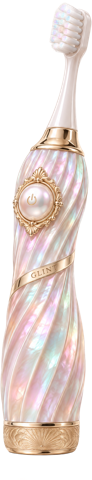
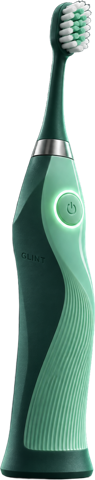
Dark green and mint colours, new Glint design, before/after photos
- Back to the dark green and mint palette
- New sculpted green Glint with a ribbed mint grip across all images and the cursor
- Generated before/after smile pair for the slider, labelled as illustrative

Claude-Session: https://claude.ai/code/session_01LpMoU7axzAW7tjnf5Kqx1y

diff --git a/index.html b/index.html
@@ -10,21 +10,24 @@
 <link href="https://fonts.googleapis.com/css2?family=Bricolage+Grotesque:opsz,wght@12..96,500;12..96,700;12..96,800&family=Inter:wght@400;500;600&display=swap" rel="stylesheet">
 <style>
   :root {
-    --bg: #f7f4ef;            /* pearl white */
-    --bg-2: #fbf9f6;          /* warm off-white */
-    --ink: #1c1e21;
-    --muted: #5f6369;
-    --line: rgba(28, 30, 33, 0.10);
-    --mint: #3f8f70;
-    --pearl: linear-gradient(120deg, #fbe7ee 0%, #f6f1e6 30%, #e3f3f0 62%, #f3e9dc 100%);
-    --pearl-soft: linear-gradient(180deg, rgba(251,231,238,.55), rgba(227,243,240,.55));
+    --bg: #12201e;            /* dark green */
+    --bg-2: #182a27;
+    --card: #1b2f2b;
+    --ink: #ece7de;
+    --muted: #a3b1ab;
+    --line: rgba(236, 231, 222, 0.11);
+    --mint: #8fd3b6;
+    --mint-deep: #5fae8e;
+    --coral: #e9a48f;
+    --pearl: linear-gradient(135deg, #8fd3b6, #5fae8e);
+    --pearl-soft: rgba(143, 211, 182, 0.08);
     --radius: 24px;
     --display: "Bricolage Grotesque", system-ui, sans-serif;
     --body: "Inter", system-ui, sans-serif;
   }
   * { box-sizing: border-box; }
   html { scroll-behavior: smooth; }
-  body { margin: 0; background: var(--bg); color: var(--ink); font-family: var(--body); font-size: 17px; line-height: 1.6; -webkit-font-smoothing: antialiased; overflow-x: hidden; }
+  body { margin: 0; background: radial-gradient(1200px 600px at 85% -10%, rgba(143,211,182,.10), transparent 60%), radial-gradient(900px 500px at -10% 30%, rgba(233,164,143,.06), transparent 60%), var(--bg); color: var(--ink); font-family: var(--body); font-size: 17px; line-height: 1.6; -webkit-font-smoothing: antialiased; overflow-x: hidden; }
   @media (pointer: fine) { html.brush-on, html.brush-on * { cursor: none !important; } }
   a { color: inherit; }
   img { display: block; max-width: 100%; height: auto; }
@@ -39,8 +42,8 @@
   .sub { font-size: clamp(18px, 1.5vw, 21px); color: var(--muted); max-width: 44ch; }
 
   .btn { display: inline-flex; align-items: center; justify-content: center; gap: 10px; font: 600 17px/1 var(--body); padding: 19px 30px; border-radius: 999px; text-decoration: none;
-    background: var(--ink); color: #fff; border: 0; transition: transform .2s, box-shadow .2s; box-shadow: 0 10px 30px rgba(28,30,33,.18); }
-  .btn:hover { transform: translateY(-2px); box-shadow: 0 16px 36px rgba(28,30,33,.24); }
+    background: var(--mint); color: #0e211b; border: 0; transition: transform .2s, box-shadow .2s, background .2s; box-shadow: 0 10px 30px rgba(143,211,182,.18); }
+  .btn:hover { transform: translateY(-2px); background: #a9e0c8; box-shadow: 0 16px 36px rgba(143,211,182,.28); }
   .btn:active { transform: translateY(0); }
   .btn svg { width: 18px; height: 18px; }
   .btn-sm { padding: 12px 20px; font-size: 15px; box-shadow: none; }
@@ -48,10 +51,10 @@
   .trust svg { width: 30px; height: 30px; flex: none; }
 
   /* nav */
-  nav.top { position: sticky; top: 0; z-index: 20; background: rgba(247, 244, 239, .88); backdrop-filter: blur(14px); border-bottom: 1px solid var(--line); }
+  nav.top { position: sticky; top: 0; z-index: 20; background: rgba(18, 32, 30, .86); backdrop-filter: blur(14px); border-bottom: 1px solid var(--line); }
   nav.top .wrap { display: flex; align-items: center; gap: 28px; height: 68px; }
   .logo { font-family: var(--display); font-weight: 800; font-size: 26px; letter-spacing: -0.03em; text-decoration: none; display: flex; align-items: center; gap: 8px; }
-  .logo i { width: 24px; height: 24px; border-radius: 8px; background: var(--pearl); box-shadow: inset 0 0 0 1px var(--line); display: grid; place-items: center; font-style: normal; font-size: 13px; }
+  .logo i { width: 24px; height: 24px; border-radius: 8px; background: var(--pearl); box-shadow: inset 0 0 0 1px var(--line); display: grid; place-items: center; font-style: normal; font-size: 13px; color: #0e211b; }
   .nav-links { display: flex; gap: 24px; font-size: 15px; color: var(--muted); }
   .nav-links a { text-decoration: none; }
   .nav-links a:hover { color: var(--ink); }
@@ -69,10 +72,10 @@
   .proof { border-block: 1px solid var(--line); padding: 40px 0; background: var(--bg-2); }
   .proof h2 { font-size: clamp(20px, 2vw, 26px); font-weight: 700; letter-spacing: -0.02em; text-align: center; max-width: 34ch; margin: 0 auto 28px; }
   .logos { display: flex; flex-wrap: wrap; justify-content: center; align-items: center; }
-  .logo-mark { display: flex; align-items: center; gap: 10px; padding: 8px 32px; color: #85898e; }
+  .logo-mark { display: flex; align-items: center; gap: 10px; padding: 8px 32px; color: #8a9a94; }
   .logo-mark + .logo-mark { border-left: 1px solid var(--line); }
   .logo-mark svg { width: 30px; height: 30px; flex: none; }
-  .logo-mark b { display: block; font: 700 15px/1.15 var(--display); letter-spacing: -0.01em; color: #6a6e73; }
+  .logo-mark b { display: block; font: 700 15px/1.15 var(--display); letter-spacing: -0.01em; color: #b5c2bc; }
   .logo-mark span { font-size: 12px; letter-spacing: .06em; text-transform: uppercase; }
 
   section.block { padding: 112px 0; }
@@ -85,10 +88,10 @@
   .vs-card img { width: 100%; aspect-ratio: 4 / 5; object-fit: cover; transition: transform .6s; }
   .vs-card:hover img { transform: scale(1.02); }
   .vs-label { position: absolute; left: 20px; bottom: 20px; right: 20px; display: flex; justify-content: space-between; align-items: center; gap: 12px;
-    padding: 14px 18px; border-radius: 16px; background: rgba(255,255,255,.86); backdrop-filter: blur(8px); font-weight: 600; }
+    padding: 14px 18px; border-radius: 16px; background: rgba(18,32,30,.82); backdrop-filter: blur(8px); font-weight: 600; }
   .vs-label small { font-weight: 500; color: var(--muted); font-size: 14px; }
-  .vs-card.glint .vs-label { background: rgba(255,255,255,.92); box-shadow: 0 10px 30px rgba(196,170,200,.3); }
-  .vs-card.glint .vs-label small { color: var(--ink); font-weight: 600; }
+  .vs-card.glint .vs-label { background: rgba(18,32,30,.86); box-shadow: inset 0 0 0 1px rgba(143,211,182,.5), 0 10px 30px rgba(143,211,182,.15); }
+  .vs-card.glint .vs-label small { color: var(--mint); font-weight: 600; }
 
   /* 4. features */
   .feature { display: grid; grid-template-columns: 1fr 1fr; gap: 64px; align-items: center; padding: 56px 0; }
@@ -100,45 +103,45 @@
   .f-art { position: relative; }
   .f-art > img { width: 100%; border-radius: var(--radius); }
   .chips { position: absolute; left: 18px; bottom: 18px; display: flex; gap: 8px; flex-wrap: wrap; }
-  .chip { display: inline-flex; align-items: center; gap: 8px; padding: 9px 14px; border-radius: 999px; background: rgba(255,255,255,.92); border: 1px solid var(--line); font-size: 14px; font-weight: 500; }
+  .chip { display: inline-flex; align-items: center; gap: 8px; padding: 9px 14px; border-radius: 999px; background: rgba(18,32,30,.86); border: 1px solid var(--line); font-size: 14px; font-weight: 500; }
   .chip svg { width: 18px; height: 18px; color: var(--mint); }
   .days { position: absolute; left: 7%; top: 7%; font: 800 clamp(72px, 10vw, 140px)/.82 var(--display); letter-spacing: -0.05em; color: var(--ink); }
   .days small { display: block; font-size: .3em; letter-spacing: .04em; margin-top: 10px; }
   .battery { display: inline-flex; align-items: center; gap: 10px; font-size: 14px; color: var(--muted); }
   .battery svg { width: 44px; height: 22px; }
   .heads-labels { display: grid; grid-template-columns: repeat(4, 1fr); text-align: center; margin: 14px 6% 0; font-size: 13px; font-weight: 600; color: var(--muted); }
-  .heads-labels span::before { content: ""; display: block; width: 1px; height: 12px; background: rgba(28,30,33,.2); margin: 0 auto 6px; }
-  .attach { display: flex; align-items: center; gap: 14px; padding: 14px 16px; border-radius: 16px; background: #fff; border: 1px solid var(--line); font-size: 14px; color: var(--muted); max-width: 380px; }
+  .heads-labels span::before { content: ""; display: block; width: 1px; height: 12px; background: rgba(236,231,222,.25); margin: 0 auto 6px; }
+  .attach { display: flex; align-items: center; gap: 14px; padding: 14px 16px; border-radius: 16px; background: var(--card); border: 1px solid var(--line); font-size: 14px; color: var(--muted); max-width: 380px; }
   .attach svg { width: 56px; height: 56px; flex: none; color: var(--ink); }
   .thirty { display: grid; place-items: center; min-height: 460px; }
-  .thirty .seal { position: relative; width: min(100%, 400px); aspect-ratio: 1; border-radius: 50%; display: grid; place-items: center; overflow: hidden; background: var(--pearl); box-shadow: inset 0 0 0 1px rgba(255,255,255,.9), 0 30px 80px rgba(200,180,200,.3); }
+  .thirty .seal { position: relative; width: min(100%, 400px); aspect-ratio: 1; border-radius: 50%; display: grid; place-items: center; overflow: hidden; background: radial-gradient(circle at 35% 30%, #24423c, #172b27 70%); box-shadow: inset 0 0 0 1px rgba(143,211,182,.35), 0 30px 80px rgba(143,211,182,.12); }
   .thirty .seal b { font: 800 clamp(120px, 15vw, 200px)/.8 var(--display); letter-spacing: -0.06em; }
   .thirty .seal svg { position: absolute; inset: 5%; width: 90%; height: 90%; animation: spin 40s linear infinite; }
-  .thirty img { position: absolute; right: -4%; bottom: -6%; width: 48%; border-radius: 20px; box-shadow: 0 20px 50px rgba(28,30,33,.15); }
+  .thirty img { position: absolute; right: -4%; bottom: -6%; width: 48%; border-radius: 20px; box-shadow: 0 20px 50px rgba(0,0,0,.4); }
   @keyframes spin { to { transform: rotate(360deg); } }
   .policy { font-size: 14px; color: var(--muted); text-underline-offset: 3px; }
 
   /* 5. before and after */
   .ba { position: relative; border-radius: 28px; overflow: hidden; aspect-ratio: 16 / 8; user-select: none; touch-action: pan-y; cursor: ew-resize; }
   .ba-pane { position: absolute; inset: 0; display: grid; place-items: center; }
-  .ba-pane.before { padding-right: 50%; background: linear-gradient(135deg, #e5ddcf, #d8cfc0); }
-  .ba-pane.after { padding-left: 50%; background: linear-gradient(135deg, #f6f3ee, #ece8e2); clip-path: inset(0 0 0 var(--pos, 50%)); }
+  .ba-pane img { width: 100%; height: 100%; object-fit: cover; pointer-events: none; }
+  .ba-pane.after { clip-path: inset(0 0 0 var(--pos, 50%)); }
   .ba-slot { text-align: center; color: #8b8378; font-size: 15px; display: grid; gap: 10px; justify-items: center; }
   .ba-slot svg { width: 64px; height: 64px; opacity: .55; }
-  .ba-tag { position: absolute; top: 20px; padding: 8px 14px; border-radius: 999px; background: rgba(255,255,255,.9); font-size: 13px; font-weight: 600; }
+  .ba-tag { position: absolute; top: 20px; z-index: 2; padding: 8px 14px; border-radius: 999px; background: rgba(18,32,30,.85); font-size: 13px; font-weight: 600; }
   .ba-tag.l { left: 20px; } .ba-tag.r { right: 20px; }
   .ba-handle { position: absolute; top: 0; bottom: 0; left: var(--pos, 50%); width: 2px; background: #fff; transform: translateX(-1px); }
-  .ba-handle button { position: absolute; top: 50%; left: 50%; width: 52px; height: 52px; margin: -26px 0 0 -26px; border-radius: 50%; border: 0; background: #fff; box-shadow: 0 8px 24px rgba(0,0,0,.18); display: grid; place-items: center; cursor: ew-resize; }
+  .ba-handle button { position: absolute; top: 50%; left: 50%; width: 52px; height: 52px; margin: -26px 0 0 -26px; border-radius: 50%; border: 0; background: #ece7de; color: #12201e; box-shadow: 0 8px 24px rgba(0,0,0,.35); display: grid; place-items: center; cursor: ew-resize; }
   .ba-handle button svg { width: 24px; height: 24px; }
   .ba-quote { display: flex; justify-content: space-between; align-items: end; gap: 24px; flex-wrap: wrap; margin-top: 24px; color: var(--muted); font-size: 15px; }
   .ba-quote blockquote { margin: 0; font-size: 20px; color: var(--ink); max-width: 46ch; }
 
   /* 6. cost table */
-  .compare { border-radius: 28px; background: #fff; border: 1px solid var(--line); overflow-x: auto; }
+  .compare { border-radius: 28px; background: var(--card); border: 1px solid var(--line); overflow-x: auto; }
   .compare table { min-width: 640px; }
   .compare table { width: 100%; border-collapse: collapse; }
   .compare th, .compare td { padding: 20px 24px; text-align: left; border-bottom: 1px solid var(--line); vertical-align: middle; }
-  .compare thead th { font: 700 18px var(--display); letter-spacing: -0.01em; padding-top: 28px; border-bottom-color: rgba(28,30,33,.16); }
+  .compare thead th { font: 700 18px var(--display); letter-spacing: -0.01em; padding-top: 28px; border-bottom-color: rgba(236,231,222,.18); }
   .compare th[scope=row] { font-weight: 500; width: 31%; }
   .compare .g { background: var(--pearl-soft); text-align: center; width: 23%; font-weight: 600; }
   .compare .n { text-align: center; color: var(--muted); width: 23%; }
@@ -146,23 +149,23 @@
   .compare td.p { display: table-cell; }
   .cell { display: inline-flex; align-items: center; gap: 8px; }
   .ok, .no { display: inline-grid; place-items: center; width: 34px; height: 34px; border-radius: 50%; }
-  .ok { background: var(--ink); color: #fff; } .no { background: #efebe5; color: #8f8a83; }
+  .ok { background: var(--mint); color: #0e211b; } .no { background: rgba(236,231,222,.08); color: #7f8d88; }
   .ok svg, .no svg { width: 18px; height: 18px; }
-  .compare tr.checkups th, .compare tr.checkups td { border-bottom: 0; background: #fff2f5; font-weight: 800; }
-  .compare tr.checkups td { color: #a83a63; letter-spacing: .02em; }
+  .compare tr.checkups th, .compare tr.checkups td { border-bottom: 0; background: rgba(233,164,143,.10); font-weight: 800; }
+  .compare tr.checkups td { color: #f0a58f; letter-spacing: .02em; }
   .compare tr.checkups th span { display: inline-flex; align-items: center; gap: 10px; font-weight: 700; }
-  .compare tr.checkups svg { width: 20px; height: 20px; color: #d9577f; animation: beat 1.6s ease-in-out infinite; }
+  .compare tr.checkups svg { width: 20px; height: 20px; color: #e9a48f; animation: beat 1.6s ease-in-out infinite; }
   @keyframes beat { 0%, 100% { transform: scale(1); } 15% { transform: scale(1.18); } 30% { transform: scale(1); } }
   .table-cta { display: flex; justify-content: center; margin-top: 40px; }
 
   /* 7. how it works */
   .steps { display: grid; grid-template-columns: repeat(3, 1fr); gap: 20px; counter-reset: s; }
-  .step { position: relative; border-radius: var(--radius); background: #fff; border: 1px solid var(--line); overflow: hidden; margin: 0; animation: stepglow 6s infinite; }
+  .step { position: relative; border-radius: var(--radius); background: var(--card); border: 1px solid var(--line); overflow: hidden; margin: 0; animation: stepglow 6s infinite; }
   .step:nth-child(2) { animation-delay: 2s; } .step:nth-child(3) { animation-delay: 4s; }
-  @keyframes stepglow { 0%, 100% { box-shadow: 0 0 0 0 rgba(0,0,0,0); transform: none; } 8%, 28% { box-shadow: 0 0 0 2px #ecd6e2, 0 20px 40px rgba(28,30,33,.08); transform: translateY(-4px); } 36% { box-shadow: 0 0 0 0 rgba(0,0,0,0); transform: none; } }
+  @keyframes stepglow { 0%, 100% { box-shadow: 0 0 0 0 rgba(0,0,0,0); transform: none; } 8%, 28% { box-shadow: 0 0 0 2px rgba(143,211,182,.55), 0 20px 40px rgba(0,0,0,.3); transform: translateY(-4px); } 36% { box-shadow: 0 0 0 0 rgba(0,0,0,0); transform: none; } }
   .step img { width: 100%; aspect-ratio: 1; object-fit: cover; }
   .step figcaption { display: flex; align-items: center; gap: 12px; padding: 18px 20px; font-weight: 600; }
-  .step figcaption::before { counter-increment: s; content: counter(s); flex: none; width: 32px; height: 32px; border-radius: 50%; display: grid; place-items: center; background: var(--ink); color: #fff; font: 700 15px var(--display); }
+  .step figcaption::before { counter-increment: s; content: counter(s); flex: none; width: 32px; height: 32px; border-radius: 50%; display: grid; place-items: center; background: var(--mint); color: #0e211b; font: 700 15px var(--display); }
 
   /* 8. FAQ */
   .faq-block { background: var(--bg-2); border-block: 1px solid var(--line); }
@@ -184,7 +187,7 @@
   /* brush cursor */
   #brush { position: fixed; left: 0; top: 0; z-index: 100; pointer-events: none; width: 0; height: 0; opacity: 0; transition: opacity .2s; }
   #brush.show { opacity: 1; }
-  #brush img { position: absolute; display: block; max-width: none; filter: drop-shadow(0 6px 10px rgba(28,30,33,.35)) drop-shadow(0 0 1px rgba(28,30,33,.6)); }
+  #brush img { position: absolute; display: block; max-width: none; filter: drop-shadow(0 6px 12px rgba(0,0,0,.5)); }
   #fx { position: fixed; inset: 0; z-index: 99; pointer-events: none; }
 
   @media (max-width: 900px) {
@@ -237,11 +240,11 @@
       <p class="sub" data-brush>Designed by a former Google engineer and a former NASA engineer, Glint is engineered to make your teeth whiter in as little as 14 days.</p>
     </div>
     <div class="hero-art">
-      <img src="img/hero.jpg" alt="The Glint toothbrush floating against a pearl-white background, iridescent liquid swirling around its head" width="1120" height="1400" fetchpriority="high">
+      <img src="img/hero.jpg" alt="The Glint toothbrush floating on a dark green background, a ribbon of pearly liquid swirling around its head" width="1120" height="1400" fetchpriority="high">
     </div>
     <div class="hero-cta">
       <a href="#cost" class="btn">I want whiter teeth <svg viewBox="0 0 24 24" fill="none" stroke="currentColor" stroke-width="2" stroke-linecap="round" stroke-linejoin="round" aria-hidden="true"><path d="M5 12h14M13 6l6 6-6 6"/></svg></a>
-      <span class="trust"><svg viewBox="0 0 32 32" fill="none" aria-hidden="true"><circle cx="16" cy="16" r="14.5" stroke="#c9c3ba" stroke-width="1.2"/><path d="M16 6.5l8 3v5.5c0 5-3.4 8.4-8 9.8-4.6-1.4-8-4.8-8-9.8V9.5z" fill="#e3f3f0" stroke="#3f8f70" stroke-width="1.4"/><path d="M12.5 15.8l2.4 2.4 4.6-4.6" stroke="#3f8f70" stroke-width="1.8" stroke-linecap="round" stroke-linejoin="round"/></svg><span data-brush>30-day money-back guarantee.</span></span>
+      <span class="trust"><svg viewBox="0 0 32 32" fill="none" aria-hidden="true"><circle cx="16" cy="16" r="14.5" stroke="rgba(236,231,222,.3)" stroke-width="1.2"/><path d="M16 6.5l8 3v5.5c0 5-3.4 8.4-8 9.8-4.6-1.4-8-4.8-8-9.8V9.5z" fill="rgba(143,211,182,.15)" stroke="#8fd3b6" stroke-width="1.4"/><path d="M12.5 15.8l2.4 2.4 4.6-4.6" stroke="#8fd3b6" stroke-width="1.8" stroke-linecap="round" stroke-linejoin="round"/></svg><span data-brush>30-day money-back guarantee.</span></span>
     </div>
   </div>
 </header>
@@ -274,7 +277,7 @@
         <figcaption class="vs-label"><span>Ordinary toothbrush</span><small>Designed to clean</small></figcaption>
       </figure>
       <figure class="vs-card glint">
-        <img src="img/vs-glint.jpg" alt="Glint standing on a glowing pearl-white background with soft light and liquid ribbons" width="1120" height="1400" loading="lazy">
+        <img src="img/vs-glint.jpg" alt="Glint standing in a soft mint glow with ribbons of pearly light around it" width="1120" height="1400" loading="lazy">
         <figcaption class="vs-label"><span>Glint</span><small>Designed to clean + whiten</small></figcaption>
       </figure>
     </div>
@@ -300,7 +303,7 @@
         <p data-brush>Glint does everything you’d expect from a great toothbrush. It cleans your teeth, tackles plaque, and keeps your mouth fresh. We just made whitening its specialty.</p>
       </div>
       <div class="f-art">
-        <img src="img/brushing.jpg" alt="A woman brushing her teeth with Glint, holding its pearl handle" width="1400" height="1045" loading="lazy">
+        <img src="img/brushing.jpg" alt="A woman brushing her teeth with Glint, holding its green handle" width="1400" height="1045" loading="lazy">
         <div class="chips">
           <span class="chip"><svg viewBox="0 0 24 24" fill="none" stroke="currentColor" stroke-width="2" stroke-linecap="round" stroke-linejoin="round" aria-hidden="true"><path d="M12 3c3 4 6 7 6 11a6 6 0 0 1-12 0c0-4 3-7 6-11z"/></svg>Cleans</span>
           <span class="chip"><svg viewBox="0 0 24 24" fill="none" stroke="currentColor" stroke-width="2" stroke-linecap="round" stroke-linejoin="round" aria-hidden="true"><path d="M4 12h4l2-5 4 10 2-5h4"/></svg>Tackles plaque</span>
@@ -314,10 +317,10 @@
         <span class="f-num">03</span>
         <h3 data-brush>100 days of brushing on one charge.</h3>
         <p data-brush>Because the last thing you need is another device begging to be plugged in.</p>
-        <span class="battery"><svg viewBox="0 0 44 22" fill="none" aria-hidden="true"><rect x="1" y="1" width="38" height="20" rx="5" stroke="currentColor" stroke-width="1.6"/><rect x="40" y="7" width="3" height="8" rx="1.5" fill="currentColor"/><rect x="4" y="4" width="31" height="14" rx="3" fill="#3f8f70"/></svg>Nearly full, still</span>
+        <span class="battery"><svg viewBox="0 0 44 22" fill="none" aria-hidden="true"><rect x="1" y="1" width="38" height="20" rx="5" stroke="currentColor" stroke-width="1.6"/><rect x="40" y="7" width="3" height="8" rx="1.5" fill="currentColor"/><rect x="4" y="4" width="31" height="14" rx="3" fill="#8fd3b6"/></svg>Nearly full, still</span>
       </div>
       <div class="f-art">
-        <img src="img/counter.jpg" alt="Glint standing on its gold base on a marble bathroom counter, no charging cable" width="1120" height="1400" loading="lazy">
+        <img src="img/counter.jpg" alt="Glint standing on its base on a dark green marble counter, no charging cable" width="1120" height="1400" loading="lazy">
         <div class="days" aria-hidden="true">100<small>DAYS</small></div>
       </div>
     </div>
@@ -327,10 +330,10 @@
         <span class="f-num">04</span>
         <h3 data-brush>Get a head. Or four.</h3>
         <p data-brush>Refill whenever you feel like it. Each Glint head holds enough Liquid Pearl for 30 days of brushing, twice a day. Get one or stock up on four.</p>
-        <div class="attach"><svg viewBox="0 0 64 64" fill="none" stroke="currentColor" stroke-width="1.6" stroke-linecap="round" stroke-linejoin="round" aria-hidden="true"><rect x="25" y="3" width="14" height="22" rx="6"/><path d="M28 8h8M28 12h8"/><path d="M32 28v8M28 32l4 4 4-4" stroke="#3f8f70"/><rect x="30" y="40" width="4" height="7" rx="1"/><rect x="24" y="47" width="16" height="15" rx="6"/></svg><span>Line the head up with the shaft and press down until it clicks.</span></div>
+        <div class="attach"><svg viewBox="0 0 64 64" fill="none" stroke="currentColor" stroke-width="1.6" stroke-linecap="round" stroke-linejoin="round" aria-hidden="true"><rect x="25" y="3" width="14" height="22" rx="6"/><path d="M28 8h8M28 12h8"/><path d="M32 28v8M28 32l4 4 4-4" stroke="#8fd3b6"/><rect x="30" y="40" width="4" height="7" rx="1"/><rect x="24" y="47" width="16" height="15" rx="6"/></svg><span>Line the head up with the shaft and press down until it clicks.</span></div>
       </div>
       <div class="f-art">
-        <img src="img/heads.jpg" alt="Four Glint replacement heads lined up on a pearl-white background" width="1400" height="792" loading="lazy">
+        <img src="img/heads.jpg" alt="Four green Glint replacement heads lined up in a row" width="1400" height="792" loading="lazy">
         <div class="heads-labels" aria-hidden="true"><span>30 days</span><span>30 days</span><span>30 days</span><span>30 days</span></div>
       </div>
     </div>
@@ -344,29 +347,29 @@
       </div>
       <div class="f-art thirty">
         <div class="seal"><b aria-hidden="true">30</b>
-          <svg viewBox="0 0 200 200" aria-hidden="true"><defs><path id="ring" d="M100 100 m-86 0 a86 86 0 1 1 172 0 a86 86 0 1 1 -172 0"/></defs><text font-family="Inter, sans-serif" font-size="11.5" font-weight="600" letter-spacing="3.4" fill="#5f6369"><textPath href="#ring">30-DAY MONEY-BACK GUARANTEE · LOVE IT OR RETURN IT · </textPath></text></svg>
+          <svg viewBox="0 0 200 200" aria-hidden="true"><defs><path id="ring" d="M100 100 m-86 0 a86 86 0 1 1 172 0 a86 86 0 1 1 -172 0"/></defs><text font-family="Inter, sans-serif" font-size="11.5" font-weight="600" letter-spacing="3.4" fill="#8fd3b6"><textPath href="#ring">30-DAY MONEY-BACK GUARANTEE · LOVE IT OR RETURN IT · </textPath></text></svg>
         </div>
-        <img src="img/guarantee.jpg" alt="Glint resting in its open pearl-white presentation box" width="1400" height="1045" loading="lazy">
+        <img src="img/guarantee.jpg" alt="Glint resting in its open deep-green presentation box" width="1400" height="1045" loading="lazy">
       </div>
     </div>
   </div>
 </section>
 
 <!-- SECTION 5 — BEFORE & AFTER
-     Both panes are slots for one genuine customer's before and after photos: same light, no retouching.
-     Add their verified quote, name or initials and how long they brushed. -->
+     These photos and the quote are generated stand-ins. Replace them with one genuine customer's
+     before and after photos (same light, no retouching), their verified quote and initials before launch. -->
 <section class="block" id="results" style="padding-top:0" aria-labelledby="results-h">
   <div class="wrap">
     <div class="head center"><h2 id="results-h" data-brush>Never be shy to smile again.</h2></div>
     <div class="ba" data-ba style="--pos: 50%">
-      <div class="ba-pane before"><div class="ba-slot"><svg viewBox="0 0 64 64" fill="none" stroke="currentColor" stroke-width="2" aria-hidden="true"><rect x="6" y="12" width="52" height="40" rx="6"/><circle cx="22" cy="26" r="5"/><path d="M6 44l16-12 12 9 8-6 16 12"/></svg>Customer photo: before</div></div>
-      <div class="ba-pane after"><div class="ba-slot"><svg viewBox="0 0 64 64" fill="none" stroke="currentColor" stroke-width="2" aria-hidden="true"><rect x="6" y="12" width="52" height="40" rx="6"/><circle cx="22" cy="26" r="5"/><path d="M6 44l16-12 12 9 8-6 16 12"/></svg>Customer photo: after</div></div>
+      <div class="ba-pane before"><img src="img/before.jpg" alt="Close-up of a smile with yellowed, coffee-stained teeth before using Glint" width="1400" height="788" draggable="false"></div>
+      <div class="ba-pane after"><img src="img/after.jpg" alt="The same smile with noticeably whiter teeth after using Glint" width="1400" height="788" draggable="false"></div>
       <span class="ba-tag l">Before Glint</span><span class="ba-tag r">After Glint</span>
       <div class="ba-handle"><button type="button" role="slider" aria-label="Compare before and after" aria-valuemin="0" aria-valuemax="100" aria-valuenow="50"><svg viewBox="0 0 24 24" fill="none" stroke="currentColor" stroke-width="2" stroke-linecap="round" stroke-linejoin="round" aria-hidden="true"><path d="M9 6l-6 6 6 6M15 6l6 6-6 6"/></svg></button></div>
     </div>
     <div class="ba-quote">
-      <blockquote>Verified customer testimonial goes here.</blockquote>
-      <span>Customer initials · Verified buyer · Used Glint for 14 days</span>
+      <blockquote>“I drink three coffees a day and had stopped smiling in photos. Two weeks in, I don’t think about it anymore.”</blockquote>
+      <span>Example result for illustration · 14 days of twice-daily brushing</span>
     </div>
   </div>
 </section>
@@ -405,7 +408,7 @@
       <p class="sub" data-brush>We spent a lot of time engineering Glint so you wouldn’t have to spend any extra time using it. Just brush twice a day as directed, and let the technology fit into your routine.</p>
     </div>
     <div class="steps">
-      <figure class="step"><img src="img/step-attach.jpg" alt="Hands pressing a fresh Liquid Pearl head onto the Glint handle" width="1024" height="1024" loading="lazy"><figcaption><span data-brush>Click on a Liquid Pearl head.</span></figcaption></figure>
+      <figure class="step"><img src="img/step-attach.jpg" alt="One hand lowering a fresh Liquid Pearl head onto the bare shaft of the Glint handle" width="1024" height="1024" loading="lazy"><figcaption><span data-brush>Click on a Liquid Pearl head.</span></figcaption></figure>
       <figure class="step"><img src="img/step-brush.jpg" alt="A man brushing his teeth with Glint" width="1024" height="1024" loading="lazy"><figcaption><span data-brush>Brush twice a day.</span></figcaption></figure>
       <figure class="step"><img src="img/step-smile.jpg" alt="The same man smiling in the mirror after brushing" width="1024" height="1024" loading="lazy"><figcaption><span data-brush>Smile.</span></figcaption></figure>
     </div>
@@ -440,7 +443,7 @@
 </footer>
 
 <canvas id="fx" aria-hidden="true"></canvas>
-<div id="brush" aria-hidden="true"><img src="img/brush-cursor.png" alt="" width="92" height="480"></div>
+<div id="brush" aria-hidden="true"><img src="img/brush-cursor.png" alt="" width="95" height="480"></div>
 
 <script>
 /* before / after slider */
@@ -455,7 +458,7 @@ document.querySelectorAll('[data-ba]').forEach(box => {
   knob.addEventListener('keydown', e => { const v = +knob.getAttribute('aria-valuenow'); if (e.key === 'ArrowLeft') set(v - 5); if (e.key === 'ArrowRight') set(v + 5); });
 });
 
-/* the brush: stained copy, scrubbed clean; keep brushing fast and it turns pearly white */
+/* the brush: stained copy, scrubbed clean; keep brushing fast and it turns bright white */
 (() => {
   const reduceMotion = matchMedia('(prefers-reduced-motion: reduce)').matches;
   const cv = document.createElement('canvas'); cv.width = cv.height = 1; const cx = cv.getContext('2d', { willReadFrequently: true });
@@ -490,8 +493,7 @@ document.querySelectorAll('[data-ba]').forEach(box => {
     const g = 1 - c.clean, sh = [];
     if (g > 0.02) sh.push(`0 1px 3px rgba(120,84,22,${(g * 0.45).toFixed(2)})`);
     if (c.shine > 0.02) {
-      if (c.dark) sh.push(`0 0 1.5px rgba(28,30,33,${(c.shine * 0.9).toFixed(2)})`);
-      sh.push(`0 0 ${(6 + c.shine * 8).toFixed(1)}px rgba(240,190,212,${(c.shine * 0.9).toFixed(2)})`, `0 0 ${(14 + c.shine * 14).toFixed(1)}px rgba(160,222,214,${(c.shine * 0.8).toFixed(2)})`);
+      sh.push(`0 0 ${(6 + c.shine * 10).toFixed(1)}px rgba(255,255,255,${(c.shine * 0.9).toFixed(2)})`, `0 0 ${(18 + c.shine * 18).toFixed(1)}px rgba(143,211,182,${(c.shine * 0.5).toFixed(2)})`);
     }
     c.el.style.color = `rgb(${col.map(v => v | 0)})`;
     c.el.style.textShadow = sh.join(',') || 'none';
@@ -501,7 +503,7 @@ document.querySelectorAll('[data-ba]').forEach(box => {
   function measure() { for (const c of chars) { const r = c.el.getBoundingClientRect(); c.x = r.left + r.width / 2 + scrollX; c.y = r.top + r.height / 2 + scrollY; } }
 
   const brush = document.getElementById('brush'), img = brush.querySelector('img');
-  const BH = 112, NAT = { w: 92, h: 480 }, S = BH / NAT.h, HOT = { x: 0.763 * NAT.w * S, y: 0.055 * NAT.h * S };
+  const BH = 112, NAT = { w: 95, h: 480 }, S = BH / NAT.h, HOT = { x: 0.741 * NAT.w * S, y: 0.055 * NAT.h * S };
   img.style.width = NAT.w * S + 'px'; img.style.height = BH + 'px'; img.style.left = -HOT.x + 'px'; img.style.top = -HOT.y + 'px'; img.style.transformOrigin = `${HOT.x}px ${HOT.y}px`;
 
   const fx = document.getElementById('fx'), ctx = fx.getContext('2d');
@@ -527,10 +529,10 @@ document.querySelectorAll('[data-ba]').forEach(box => {
       const q = parts[i]; q.life -= q.d * dt; if (q.life <= 0) { parts.splice(i, 1); continue; }
       q.x += q.vx * dt; q.y += q.vy * dt; const sx = q.x - scrollX, sy = q.y - scrollY;
       ctx.globalAlpha = Math.min(1, q.life * 1.4);
-      if (!q.k) { ctx.beginPath(); ctx.arc(sx, sy, q.r, 0, 7); ctx.fillStyle = 'rgba(255,255,255,.7)'; ctx.fill(); ctx.strokeStyle = 'rgba(95,99,105,.35)'; ctx.lineWidth = 1; ctx.stroke(); }
+      if (!q.k) { ctx.beginPath(); ctx.arc(sx, sy, q.r, 0, 7); ctx.fillStyle = 'rgba(255,255,255,.22)'; ctx.fill(); ctx.strokeStyle = 'rgba(255,255,255,.7)'; ctx.lineWidth = 1; ctx.stroke(); }
       else {
         const r = q.r * (.6 + .4 * Math.sin(q.life * Math.PI));
-        ctx.save(); ctx.translate(sx, sy); ctx.rotate(q.rot + (1 - q.life)); ctx.fillStyle = '#fff'; ctx.shadowColor = '#e9b7cb'; ctx.shadowBlur = 10;
+        ctx.save(); ctx.translate(sx, sy); ctx.rotate(q.rot + (1 - q.life)); ctx.fillStyle = '#fff'; ctx.shadowColor = '#bfffe8'; ctx.shadowBlur = 10;
         ctx.beginPath(); for (let k = 0; k < 8; k++) { const a = k / 8 * Math.PI * 2, rr = k % 2 ? r * .22 : r; ctx.lineTo(Math.cos(a) * rr, Math.sin(a) * rr); }
         ctx.closePath(); ctx.fill(); ctx.restore();
       }

diff --git a/README.md b/README.md
@@ -4,6 +4,6 @@ Landing page for **Glint**, a fictional whitening sonic toothbrush. The cursor i
 
 Sections: hero, awards strip, what makes Glint different, five features (Liquid Pearl, cleaning, 100-day battery, refill heads, 30-day guarantee), before/after slider, cost comparison, how it works, FAQ.
 
-Placeholders to replace before launch: award logos, before/after customer photos and testimonial, professional whitening price, FAQ answers (verify), and the full return policy.
+Placeholders to replace before launch: award logos, the generated before/after photos and quote (use a real customer), professional whitening price, FAQ answers (verify), and the full return policy.
 
 Single file, no build step: open `index.html`. Images are in `img/`.
